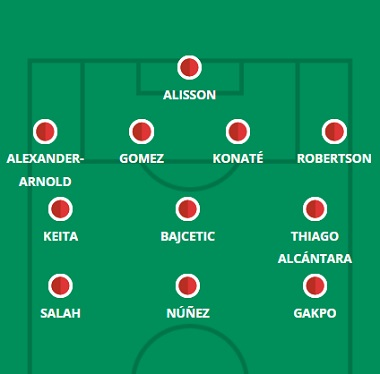
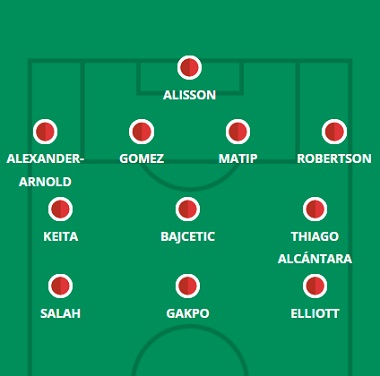
11-20

diff --git a/leeds.html b/leeds.html
@@ -63,15 +63,15 @@
     <hgroup>
         <h1> Provável Escalação</h1>
         <h2 class="direita"> por FabioVascão </h2>
-        <h3 class="direita"> Atualizado em 20/Janeiro/2023 </h3>
+        <h3 class="direita"> Atualizado em 03/Fevereiro/2023 </h3>
     </hgroup>
 
     <div class="selecao"><p><b><img src="images/logos/leeds.png" width="100rem" height="100rem"/> Leeds</b></p></div>
        
     <div class="escalacao">
         <div class="topo">
-            <h2 class="titulo">Ultimas Notícias</h2> <h4><p> Stuart Dallas (joelho), Archie Gray (tornozelo), Crysencio Summerville (tornozelo) e Adam Forshaw (quadril) permanecem de fora, mas Max Wober (quadril) minimizou uma lesão no meio da semana para ser aprovado, enquanto a falta de uma atualização sobre Robin Koch, Pascal Struijk e Liam Cooper - que não participaram da vitória da copa no meio da semana sobre o Cardiff por causa de "batidas" - sugere que eles também estão bem para a visita de Brentford. O recém-recuperado Luis Sinisterra e o recém-chegado Georginio Rutter estarão na equipe neste fim de semana, mas a condição física será um problema para essa dupla de ataque, enquanto Jesse Marsch também certamente deseja evitar o risco de Patrick Bamford se machucar novamente ( novamente) e gerencie os minutos do atacante de acordo. Tudo isso significa que pudemos ver os mesmos quatro atacantes que começaram contra o Aston Villa, com Wilfried Gnonto certamente indestrutível na forma atual. Pode muito bem haver uma mudança na defesa, no entanto, com o versátil Wober impressionando desde a sua chegada: ele pode substituir Cooper ou Struijk na retaguarda, podendo substituir tanto no meio-campo quanto na lateral-esquerda.</p></h4><br>
-            <h4><strong>Dúvidas:</strong> Dallas, Gray (Archie), Cooper, Koch, Summerville e Forshaw.</h4>
+            <h2 class="titulo">Ultimas Notícias</h2> <h4><p> Rodrigo Moreno (tornozelo) juntou-se a Stuart Dallas (joelho), Archie Gray (tornozelo), Sonny Perkins (tornozelo) e Adam Forshaw (quadril) nos bastidores da viagem a Nottingham Forest, enquanto Robin Koch ficará de fora deste jogo por suspensão . Pascal Struijk, Liam Cooper, Crysencio Summerville e Tyler Adams estão todos aptos, no entanto, enquanto a equipe do Leeds foi reforçada desde a 21ª rodada com as contratações do meio-campista Weston McKennie e do jovem meia Diogo Monteiro. Há dores de cabeça de seleção em todo o parque com os retornados por lesão e as aquisições da janela de janeiro. Qualquer combinação de Cooper, Struijk e Max Wober pode ser combinada na ausência de Koch, embora haja a chance de Jesse Marsch optar pelo lateral-direito natural Luke Ayling no meio-campo. A chegada de McKennie ameaça o lugar de Marc Roca ou dá a Marsch a opção de ir para 4-3-3, enquanto Georginio Rutter e Luis Sinisterra estão pressionando para começar nos flancos / cima depois de perder contra Accrington no fim de semana passado. O estado mental de Jack Harrison pode influenciar parcialmente se algum deles conseguirá o aceno no City Ground, já que o ala - que se destacou na copa no fim de semana passado - estava muito perto de se juntar ao Leicester no prazo final um dia antes de o plugue ser desligado em movimento . Até mesmo o esquecido Junior Firpo está reivindicando a titularidade depois de impressionar em Accrington, embora a disponibilidade dos canhotos Wober, Struijk e Cooper torne isso menos provável. Bamford espera liderar a linha na ausência de Rodrigo, mas o tempo de jogo compartilhado de alguma variedade com Rutter parece provável na próxima semana e além.</p></h4><br>
+            <h4><strong>Dúvidas:</strong> Dallas, Gray (Archie), Rodrigo, Koch, Perkins e Forshaw.</h4>
         </div>
         <aside>
             <figure>

diff --git a/brentford.html b/brentford.html
@@ -63,15 +63,15 @@
     <hgroup>
         <h1> Provável Escalação</h1>
         <h2 class="direita"> por FabioVascão </h2>
-        <h3 class="direita"> Atualizado em 20/Janeiro/2023 </h3>
+        <h3 class="direita"> Atualizado em 03/Fevereiro/2023 </h3>
     </hgroup>
 
     <div class="selecao"><p><b><img src="images/logos/brentford.png" width="100rem" height="100rem"/> Brentford</b></p></div>
        
     <div class="escalacao">
         <div class="topo">
-            <h2 class="titulo">Ultimas Notícias</h2> <h4><p> Thomas Frank espera que Rico Henry treine na sexta-feira depois que o zagueiro perdeu a vitória sobre o Bournemouth com um pequeno problema na panturrilha, então o zagueiro deve fazer um retorno muito rápido ao time. Pontus Jansson (coxa) e Frank Onyeka (coxa) permanecem de fora, enquanto Shandon Baptiste (músculo) e Aaron Hickey (tornozelo) ainda podem não ser considerados, apesar de ganharem minutos de condicionamento físico em um amistoso no meio da semana. Thomas Frank pode estar em um dilema em relação à formação inicial, já que a implantação do 3-5-2 que ele normalmente usa contra os seis grandes times também foi usada para o sucesso no West Ham na Rodada 18. Frank voltou para um 4-3-3 para a vitória em casa sobre o Bournemouth no último sábado, mas com o Leeds uma força de ataque bastante potente, o chefe do Brentford pode optar por introduzir um terceiro zagueiro, transferindo Kristoffer Ajer da lateral-direita ou chamando Zanka. Mads Roerslev também deve dar uma olhada se virmos o sistema lateral de volta à operação, com Yoane Wissa tantas vezes o peso-chave quando Frank sacrifica um de seus três atacantes para fins táticos. Vitaly Janelt e Josh Dasilva lutarão por uma vaga ao lado de Mathias Jensen e Christian Norgaard, embora os serviços de Janelt possam ser necessários como lateral-esquerdo/lateral se Henry não conseguir.</p></h4><br>
-            <h4><strong>Dúvidas:</strong> Baptiste, Hickey, Henry, Onyenka e Jansson. </h4>
+            <h2 class="titulo">Ultimas Notícias</h2> <h4><p> Pontus Jansson (coxa) e Frank Onyeka (coxa) permanecem de fora, mas Shandon Baptiste pode retornar à equipe da rodada, depois de ter se recuperado em janeiro, após alguns meses afastado. Thomas Frank pode estar em um dilema em relação à formação inicial, já que a implantação do 3-5-2 que ele normalmente usa contra os seis grandes times também está em operação contra o West Ham e o Leeds ultimamente. Frank voltou para um 4-3-3 para a vitória em casa sobre o Bournemouth na Gameweek 20, no entanto, e ele pode ver a visita do Southampton, último colocado da tabela, de uma maneira semelhante. Oito jogadores parecem titulares seguros (exceto por lesão) e as questões estão no lado direito da defesa, Josh DaSilva contra o mais defensivo Vitaly Janelt no meio-campo, e quem é Yoane Wissa, Keane Lewis-Potter e o novo garoto Kevin Schade recebe o aceno no flanco esquerdo se Frank for com três para cima. Mads Roerslev e Aaron Hickey (que não joga um minuto desde outubro) são laterais-direitos mais naturais, embora um desses dois jogadores e Kristoffer Ajer ainda possam jogar no mesmo time se virmos um sistema lateral novamente.</p></h4><br>
+            <h4><strong>Dúvidas:</strong> Baptiste, Onyenka e Jansson. </h4>
         </div>
         <aside>
             <figure>

diff --git a/liverpool.html b/liverpool.html
@@ -63,15 +63,15 @@
     <hgroup>
         <h1> Provável Escalação</h1>
         <h2 class="direita"> por FabioVascão </h2>
-        <h3 class="direita"> Atualizado em 20/Janeiro/2023 </h3>
+        <h3 class="direita"> Atualizado em 03/Fevereiro/2023 </h3>
     </hgroup>
 
     <div class="selecao"><p><b><img src="images/logos/liverpool.png" width="100rem" height="100rem"/> Liverpool</b></p></div>
        
     <div class="escalacao">
         <div class="topo">
-            <h2 class="titulo">Ultimas Notícias</h2> <h4><p> Virgil van Dijk (coxa), Arthur (músculo), Diogo Jota (coxa), Luis Diaz (joelho) e Roberto Firmino (panturrilha) permanecem de fora, mas Darwin Nunez (não especificado) pode estar de volta para a visita do Chelsea. Houve ambiguidade suficiente sobre a pergunta e a resposta sobre a aptidão do uruguaio para não dar tudo certo (Klopp apenas respondeu "sim" quando perguntado se Darwin estava "mais perto da seleção"), com o repórter colocando o assunto rapidamente passando para algo mais. No entanto, as sugestões de outros lugares são de que Darwin agora está livre de lesões, então o atacante deve poder retornar aos três primeiros ao lado de Cody Gakpo e Mohamed Salah. Pode haver baixas em outros lugares após o show de terror em Brighton, com Joe Gomez pressionando Joel Matip por uma vaga no meio-campo e muito debate a ser feito sobre a composição dos três do meio-campo. Enquanto Thiago Alcantara certamente começa, as exibições atrozes de Jordan Henderson e Fabinho (não a primeira dos últimos tempos) podem abrir caminho para os impressionantes jogadores da copa Naby Keita e Stefan Bajcetic começarem. Harvey Eliott também impressionou em Molineux no meio da semana, mas em uma função mais avançada, e provavelmente há menos chance de ele ceder um dos titulares previstos.</p></h4><br>
-            <h4><strong>Dúvidas:</strong> Firmino, Díaz, Arthur, Diogo Jota, Van Dijk, Tsimikas e Nunez.</h4>
+            <h2 class="titulo">Ultimas Notícias</h2> <h4><p> Virgil van Dijk (coxa), Arthur (músculo), Diogo Jota (coxa), Luis Diaz (joelho) e Roberto Firmino (panturrilha) estão perto de retornar, mas permanecem de fora, enquanto Ibrahima Konate se juntou a eles devido a uma lesão muscular. Joe Gomez e Joel Matip parecem prestes a começar no meio-campo, enquanto Jurgen Klopp parecia insinuar que Stefan Bajcetic manteria seu lugar ao discutir a queda de Fabinho na sala de máquinas. A escalação que você vê aqui é a que apareceu na FA Cup no fim de semana passado, com exceção de Matip no lugar do ausente Konate. O sistema parecia mais 4-2-3-1 às vezes e viu Naby Keita e Harvey Elliott oferecerem largura, com Cody Gakpo caindo mais fundo e Mohamed Salah jogando mais avançado. Apesar da derrota no Amex, Klopp disse que a exibição o encorajou - então pode não haver mudanças no Molineux. Um jogador que luta pela reconvocação, é claro, é Darwin Nunez, mas o desempenho positivo de Elliott contra o Brighton não torna fácil para o uruguaio recuperar sua vaga. Jordan Henderson e Curtis Jones são outras alternativas no meio-campo, com Alex Oxlade-Chamberlain outra opção entre os três primeiros.</p></h4><br>
+            <h4><strong>Dúvidas:</strong> Firmino, Díaz, Arthur, Diogo Jota, Van Dijk, Konate e Carvalho.</h4>
         </div>
         <aside>
             <figure>

diff --git a/brighton.html b/brighton.html
@@ -63,15 +63,15 @@
     <hgroup>
         <h1> Provável Escalação</h1>
         <h2 class="direita"> por FabioVascão </h2>
-        <h3 class="direita"> Atualizado em 20/Janeiro/2023 </h3>
+        <h3 class="direita"> Atualizado em 03/Fevereiro/2023 </h3>
     </hgroup>
 
     <div class="selecao"><p><b><img src="images/logos/brighton.png" width="100rem" height="100rem"/> Brighton</b></p></div>
        
     <div class="escalacao">
         <div class="topo">
-            <h2 class="titulo">Ultimas Notícias</h2> <h4><p> Levi Colwill (músculo) parece prestes a perder a viagem para Leicester City, mas, além dele e da vítima de lesão de longa data Jakub Moder (joelho), os Seagulls não têm nenhuma preocupação séria para o fim de semana. Roberto De Zerbi confirmou na coletiva de imprensa de sexta-feira que Adam Webster ou Jan Paul van Hecke substituirão Colwill no meio-campo e, embora van Hecke tenha se mostrado muito promissor em sua carreira embrionária no Seagulls, sua falta de experiência na Premier League pode apenas ver Webster recebe o aceno. Não que De Zerbi tenha tido medo de estrear no sangue até agora em seu tempo no Amex, com Evan Ferguson e Kaoru Mitoma se destacando nas últimas semanas e novamente no último fim de semana contra o Liverpool. A natureza abrangente dessa vitória sobre a equipe de Jurgen Klopp sem dúvida tentará o técnico do Brighton a manter as mudanças reduzidas a uma alteração forçada na defesa, embora Danny Welbeck esteja agora em forma novamente e pressionando Ferguson no topo. Joel Veltman e Tariq Lamptey são opções mais naturais na lateral-direita, mas De Zerbi mais uma vez colocou Pascal Gross sobre eles contra o Liverpool, com Adam Lallana se beneficiando do meio-campo vago mais à frente.</p></h4><br>
-            <h4><strong>Dúvidas:</strong> Moder, Mwepu e Colwill. </h4>
+            <h2 class="titulo">Ultimas Notícias</h2> <h4><p> Levi Colwill (músculo), Adam Lallana (músculo), Jakub Moder (joelho) e Alexis Mac Allister (suspenso) perderão a visita ao Bournemouth, enquanto Evan Ferguson (joelho) será avaliado após o temor de uma lesão grave diminuir. Como resultado, Roberto De Zerbi não está muito longe de ser reduzido ao máximo neste fim de semana, mas ainda há uma ou duas dores de cabeça de seleção para o chefe de Brighton: onde ele decide colocar o versátil Pascal Gross pode ditar se Jeremy Sarmiento ou Billy Gilmour vem para o lado para um raro início de liga. A forma física de Adam Webster (ele saiu após 45 minutos na copa) também pode ser o fator decisivo no meio-campo, e foi interessante ver Joel Veltman substituí-lo contra o Liverpool após a exibição vacilante de Jan Paul van Hecke contra o Leicester na Gameweek 21. Os senhores Sanchez, Dunk, Estupinan, Gross, March e Mitoma parecem titulares seguros, enquanto De Zerbi confirmou que Tariq Lamptey jogará e que Facundo Buonanotte estará no banco contra os Cherries. Não parece haver uvas verdes com Moises Caicedo depois de seu apelo 'venha e me pegue' ao Arsenal na janela de transferência de janeiro, então o internacional do Equador parece pronto para retornar ao meio-campo.</p></h4><br>
+            <h4><strong>Dúvidas:</strong> Moder, Fergunson, Lallana, Mac Allister e Colwill. </h4>
         </div>
         <aside>
             <figure>

diff --git a/aston.html b/aston.html
@@ -63,15 +63,15 @@
     <hgroup>
         <h1> Provável Escalação</h1>
         <h2 class="direita"> por FabioVascão </h2>
-        <h3 class="direita"> Atualizado em 20/Janeiro/2023 </h3>
+        <h3 class="direita"> Atualizado em 03/Fevereiro/2023 </h3>
     </hgroup>
 
     <div class="selecao"><p><b><img src="images/logos/aston-villa.png" width="100rem" height="100rem"/> Aston Villa</b></p></div>
        
     <div class="escalacao">
         <div class="topo">
-            <h2 class="titulo">Ultimas Notícias</h2> <h4><p> Lucas Digne (ombro) juntou-se a Diego Carlos (Aquiles) e John McGinn (coxa) nas laterais, mas Ludwig Augustinsson (tornozelo), Matty Cash (virilha) e Ollie Watkins (tornozelo) devem estar disponíveis para a viagem a Southampton. Alex Moreno parece pronto para sua estreia completa na ausência de Digne, mas a equipe do Villa deve permanecer inalterada para o confronto em St Mary's, com a saída de Danny Ings, a esperada disponibilidade de Watkins e a excelente exibição de Leon Bailey na última sexta-feira consolidando o atual parceria no topo. Philippe Coutinho ainda espera seu primeiro início na liga sob o comando de Unai Emery, enquanto a disponibilidade de Cash pode ser discutível, já que ele foi mantido fora do time como lateral-direito por Ashley Young antes de sua lesão. Leander Dendoncker está novamente disponível após suspensão, mas o emprestado Jan Bednarek fica de fora por inelegibilidade.</p></h4><br>
-            <h4><strong>Dúvidas:</strong> Bednarek, Digne, McGinn, Diego Carlos, Cash e Watkins.</h4>
+            <h2 class="titulo">Ultimas Notícias</h2> <h4><p> John McGinn (coxa) e Lucas Digne (ombro) voltaram a treinar na última quinzena e estão disponíveis, deixando apenas Diego Carlos (Aquiles) e Bertrand Traore (não especificado) de fora da visita ao Leicester. No entanto, se algum dos retornados voltará ao XI titular é outra questão: Alex Moreno é muito o próprio Unai Emery como lateral-esquerdo, enquanto o chefe do Villa pode optar por ficar com Jacob Ramsey na direita, em vez de acelerar McGinn nas costas. na equipe depois de um mês fora. Com cinco vitórias e apenas uma derrota em suas primeiras sete partidas no campeonato, seria realmente uma surpresa se Emery fizesse muitas/algumas mudanças não forçadas para o jogo de sábado. A saída de Danny Ings cimenta a atual parceria (o jovem Jhon Duran estará no banco, na melhor das hipóteses), enquanto Philippe Coutinho ainda aguarda seu primeiro início na liga sob o comando de Emery. Matty Cash, que voltou de lesão como substituto na Gameweek 21, foi mantido fora do time como lateral-direito por Ashley Young antes de sua ausência de duas semanas, então mais aquecimento de banco acena.</p></h4><br>
+            <h4><strong>Dúvidas:</strong> Diego Carlos.</h4>
         </div>
         <aside>
             <figure>
